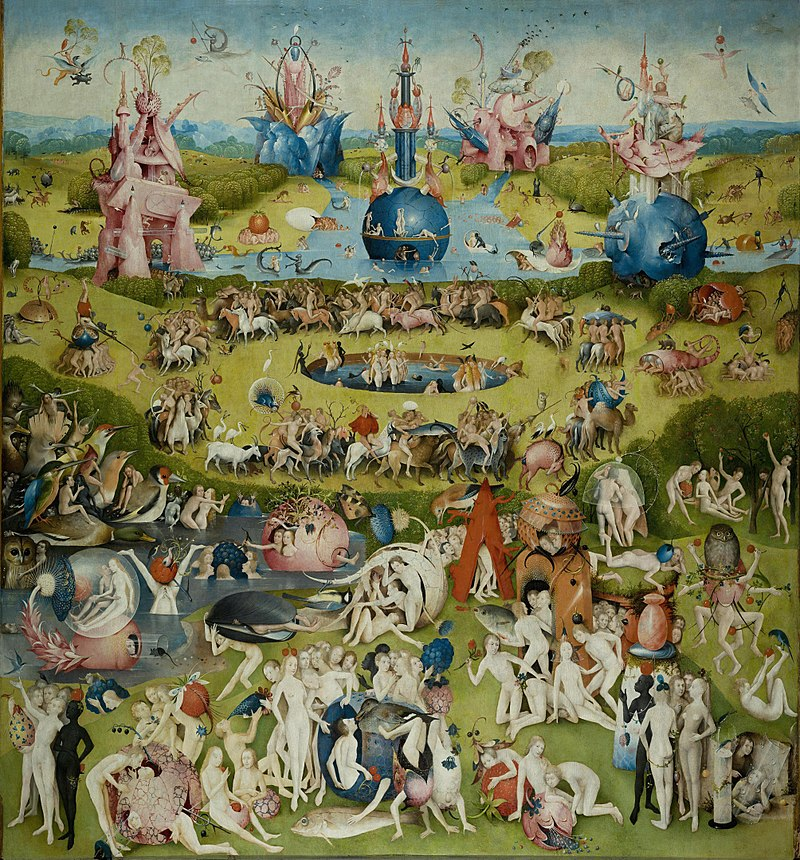
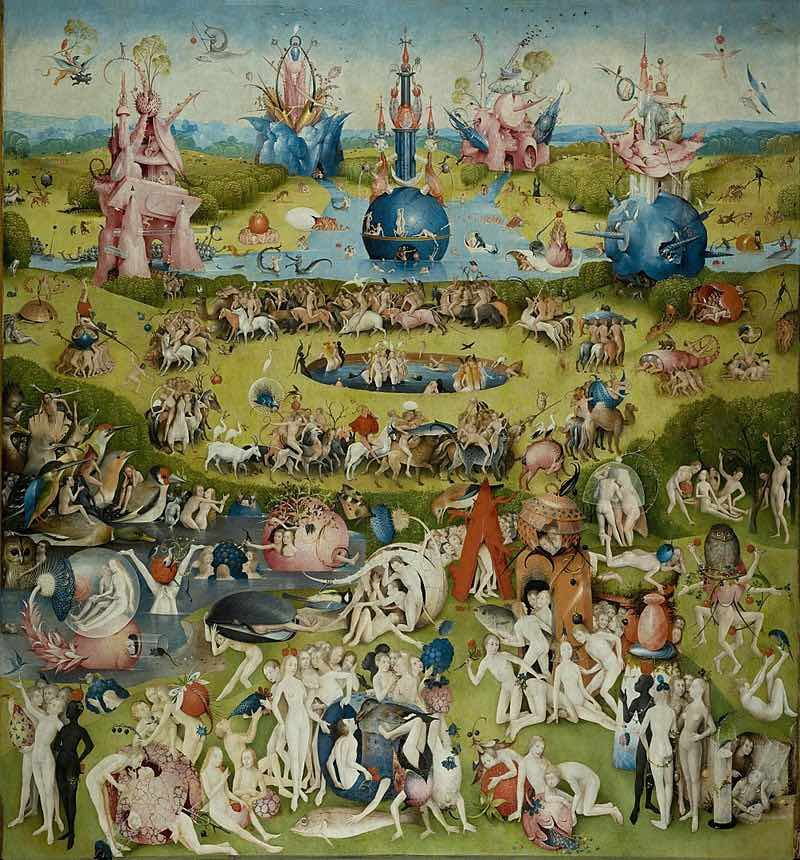
Updata

diff --git a/js/hack_Sketch.js b/js/hack_Sketch.js
@@ -43,21 +43,20 @@ function preload() {
 	img4 = loadImage("assets/sketch02_imgs/ura_data_02.png");
 
 	// img = loadImage("assets/sketch02_imgs/pic02.jpg");
-	imgs[0] = loadImage('assets/sketch02_imgs/pic01.png');
-	imgs[1] = loadImage('assets/sketch02_imgs/pic02.png');
-	imgs[2] = loadImage('assets/sketch02_imgs/pic03.png');
-	imgs[3] = loadImage('assets/sketch02_imgs/pic04.png');
+	imgs[0] = loadImage('assets/sketch02_imgs/pic01.jpg');
+	imgs[1] = loadImage('assets/sketch02_imgs/pic02.jpg');
+	imgs[2] = loadImage('assets/sketch02_imgs/pic03.jpg');
+	imgs[3] = loadImage('assets/sketch02_imgs/pic04.jpg');
 	imgs[4] = loadImage('assets/sketch02_imgs/pic05.jpg');
 	imgs[5] = loadImage('assets/sketch02_imgs/pic06.jpg');
 	imgs[6] = loadImage('assets/sketch02_imgs/pic07.jpg');
 	imgs[7] = loadImage('assets/sketch02_imgs/pic08.jpg');
 	imgs[8] = loadImage('assets/sketch02_imgs/pic09.jpg');
 	imgs[9] = loadImage('assets/sketch02_imgs/pic10.jpg');
-	imgs[10] = loadImage('assets/sketch02_imgs/pic11.png');
+	imgs[10] = loadImage('assets/sketch02_imgs/pic11.jpg');
 	imgs[11] = loadImage('assets/sketch02_imgs/pic12.jpg');
 	imgs[12] = loadImage('assets/sketch02_imgs/pic13.jpg');
 	imgs[13] = loadImage('assets/sketch02_imgs/pic14.jpg');
-	imgs[14] = loadImage('assets/sketch02_imgs/pic15.png');
 }
 
 
@@ -182,7 +181,7 @@ function drawImgNoise(){
 		  	pop();
 	      	break; 
 	    case 38:
-			var rn = int(random(14));
+			var rn = int(random(13));
   			image(imgs[rn],0,0,width,height);
 	      	break;
 	    case 37:
